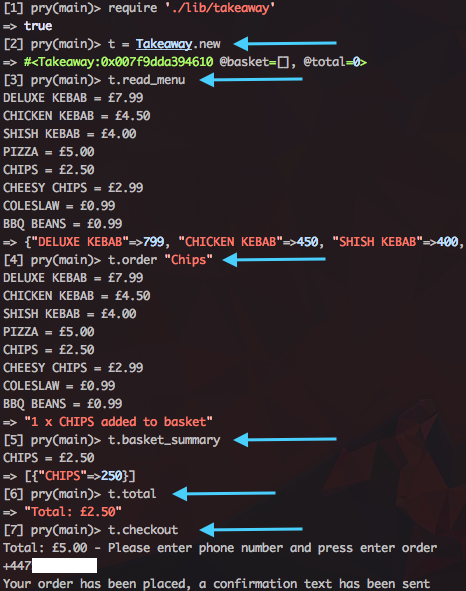
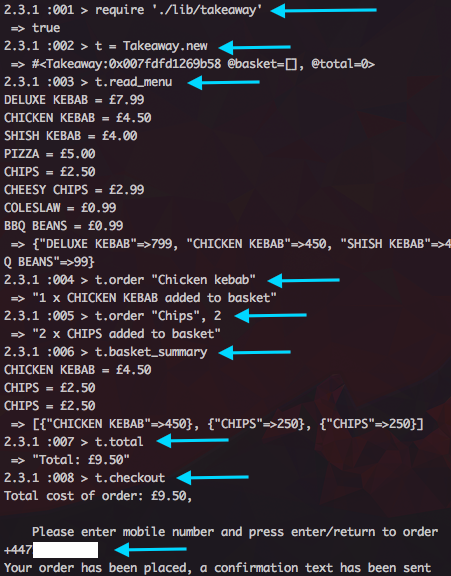
removed Twilio details from SMS Module and updated instructions

Changed region(s): [[0.0, 0.0, 1.0, 1.0], [0.4967, 0.5938, 0.6519, 0.625]]

diff --git a/lib/sms.rb b/lib/sms.rb
@@ -1,17 +1,14 @@
 require 'twilio-ruby'
 
-private
+
 module SMS
   def send_sms(_message)
-    account_sid = "AC5e9caa7cfc49df6c213aab630094cdd8"
-    auth_token = "4b0ac2496f41c859530ea0fe8058ebf1"
-    @client = Twilio::REST::Client.new account_sid, auth_token
-    from = "+44 113 320 5206"
-    @client.account.messages.create(
-      from: from,
-      to: @user,
-      body: "Thank you for your order"
-    )
+    account_sid = ENV['TWILIO_ACCOUNT_SID']
+    auth_token = ENV['TWILIO_AUTH_TOKEN']
+    from = ENV['TWILIO_NO']
+    client = Twilio::REST::Client.new account_sid, auth_token
+    client.account.messages.create(from: from, to: @user,
+      body: "Thank you for your order")
     puts "Your order has been placed, a confirmation text has been sent"
   end
 end

diff --git a/lib/takeaway.rb b/lib/takeaway.rb
@@ -1,6 +1,8 @@
 require_relative 'menu'
 require_relative 'order'
 require_relative 'sms'
+require 'dotenv'
+Dotenv.load
 
 class Takeaway
   attr_reader :basket, :total, :user, :message
@@ -27,7 +29,8 @@ class Takeaway
 
   def checkout
     fail "No items in basket" if @basket.empty?
-    puts "#{total}, Please enter mobile number and press enter/return to order"
+    puts "Total cost of order: £#{format('%.02f', (@total.to_f / 100))}, \n
+    Please enter mobile number and press enter/return to order"
     @user = $stdin.gets.chomp
     @message = "Thank you for your order"
     send_sms(message)

diff --git a/lib/order.rb b/lib/order.rb
@@ -5,7 +5,7 @@ module Order
   def add_to_order(item)
     item = item.upcase
     fail "Item not on menu" unless menu_list.include? item
-    {item => read_menu[item]}
+    {item => menu_list[item]}
   end
 
   def format_basket
